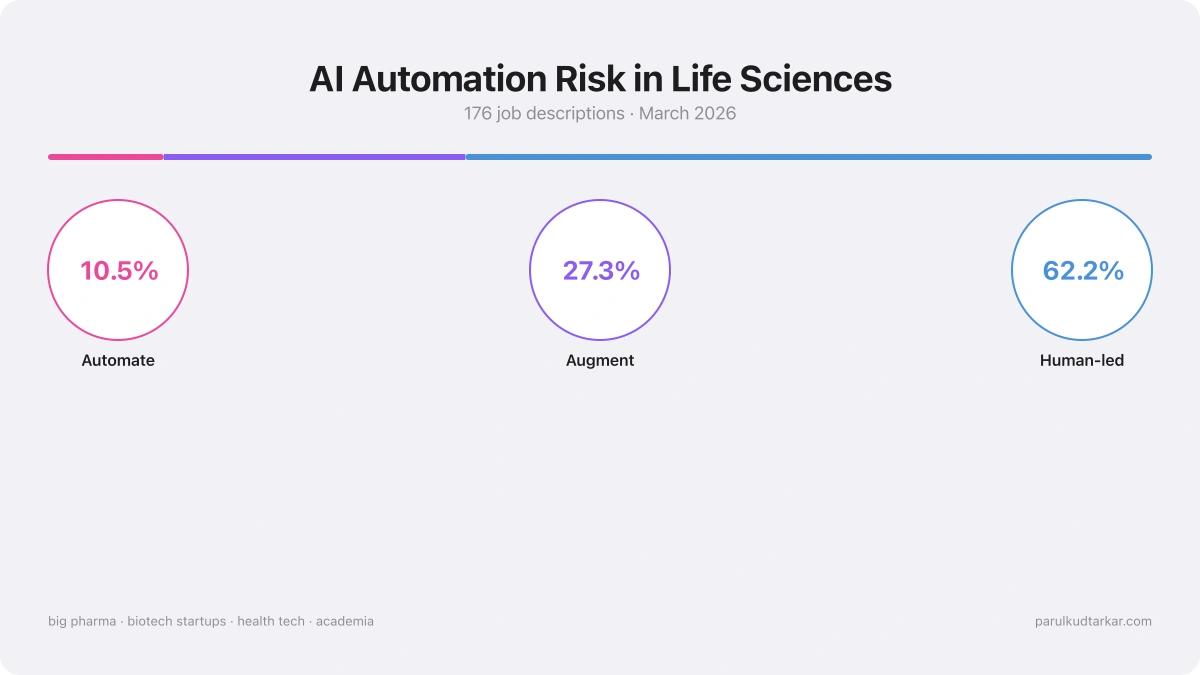
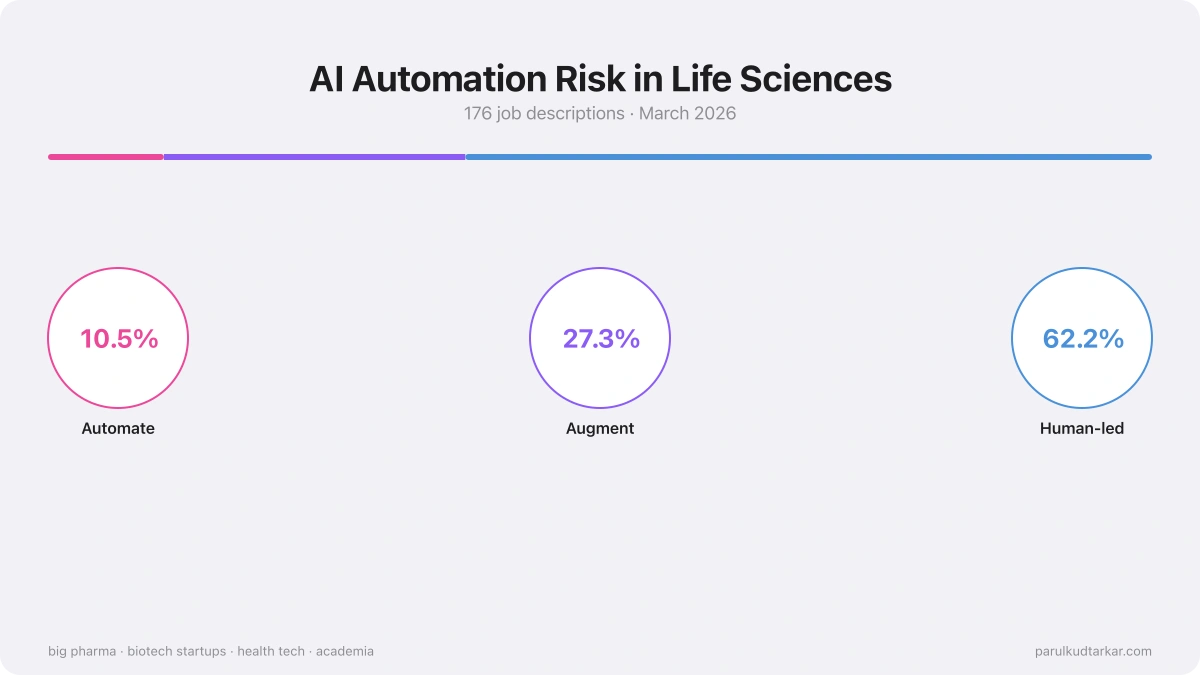
blog2: AI task augmentation -- update

diff --git a/components/blog-thumbnails/ai-automation-risk-thumbnail.tsx b/components/blog-thumbnails/ai-automation-risk-thumbnail.tsx
@@ -51,29 +51,29 @@ export function AiAutomationRiskThumbnail() {
         textAnchor="middle"
       >
         {/* Circle 1 */}
-        <circle cx={118} cy={270} r={70} fill="#ffffff" stroke="#EC4899" strokeWidth={2} />
-        <text x={118} y={270} fontSize={26} fontWeight={700} fill="#EC4899" dominantBaseline="middle">
+        <circle cx={118} cy={338} r={70} fill="#ffffff" stroke="#EC4899" strokeWidth={2} />
+        <text x={118} y={338} fontSize={26} fontWeight={700} fill="#EC4899" dominantBaseline="middle">
           10.5%
         </text>
-        <text x={118} y={360} fontSize={16} fontWeight={600} fill="#1d1d1f" dominantBaseline="middle">
+        <text x={118} y={428} fontSize={16} fontWeight={600} fill="#1d1d1f" dominantBaseline="middle">
           Automate
         </text>
 
         {/* Circle 2 */}
-        <circle cx={600} cy={270} r={70} fill="#ffffff" stroke="#8B5CF6" strokeWidth={2} />
-        <text x={600} y={270} fontSize={26} fontWeight={700} fill="#8B5CF6" dominantBaseline="middle">
+        <circle cx={600} cy={338} r={70} fill="#ffffff" stroke="#8B5CF6" strokeWidth={2} />
+        <text x={600} y={338} fontSize={26} fontWeight={700} fill="#8B5CF6" dominantBaseline="middle">
           27.3%
         </text>
-        <text x={600} y={360} fontSize={16} fontWeight={600} fill="#1d1d1f" dominantBaseline="middle">
+        <text x={600} y={428} fontSize={16} fontWeight={600} fill="#1d1d1f" dominantBaseline="middle">
           Augment
         </text>
 
         {/* Circle 3 */}
-        <circle cx={1082} cy={270} r={70} fill="#ffffff" stroke="#4A90D9" strokeWidth={2} />
-        <text x={1082} y={270} fontSize={26} fontWeight={700} fill="#4A90D9" dominantBaseline="middle">
+        <circle cx={1082} cy={338} r={70} fill="#ffffff" stroke="#4A90D9" strokeWidth={2} />
+        <text x={1082} y={338} fontSize={26} fontWeight={700} fill="#4A90D9" dominantBaseline="middle">
           62.2%
         </text>
-        <text x={1082} y={360} fontSize={16} fontWeight={600} fill="#1d1d1f" dominantBaseline="middle">
+        <text x={1082} y={428} fontSize={16} fontWeight={600} fill="#1d1d1f" dominantBaseline="middle">
           Human-led
         </text>
       </g>
@@ -85,10 +85,10 @@ export function AiAutomationRiskThumbnail() {
         fill="#8e8e93"
         fontWeight={400}
       >
-        <text x={48} y={621} dominantBaseline="middle">
+        <text x={48} y={651} dominantBaseline="middle">
           big pharma · biotech startups · health tech · academia
         </text>
-        <text x={1152} y={621} dominantBaseline="middle" textAnchor="end">
+        <text x={1152} y={651} dominantBaseline="middle" textAnchor="end">
           parulkudtarkar.com
         </text>
       </g>

diff --git a/components/blog/sector-dashboard.tsx b/components/blog/sector-dashboard.tsx
@@ -105,6 +105,22 @@ export function SectorDashboard() {
       </div>
 
       <div
+        style={{
+          display: "flex",
+          justifyContent: "space-between",
+          paddingTop: "12px",
+          borderTop: "1px solid #f0f0f0",
+          marginTop: "16px",
+          color: "#8e8e93",
+          fontSize: "11px",
+          width: "100%",
+        }}
+      >
+        <span>parulkudtarkar.com</span>
+        <span>176 job descriptions · March 2026</span>
+      </div>
+
+      <div
         className="mt-5 flex flex-wrap items-center justify-center gap-x-6 gap-y-2"
         style={{ fontSize: "12px", color: "#1d1d1f" }}
       >
